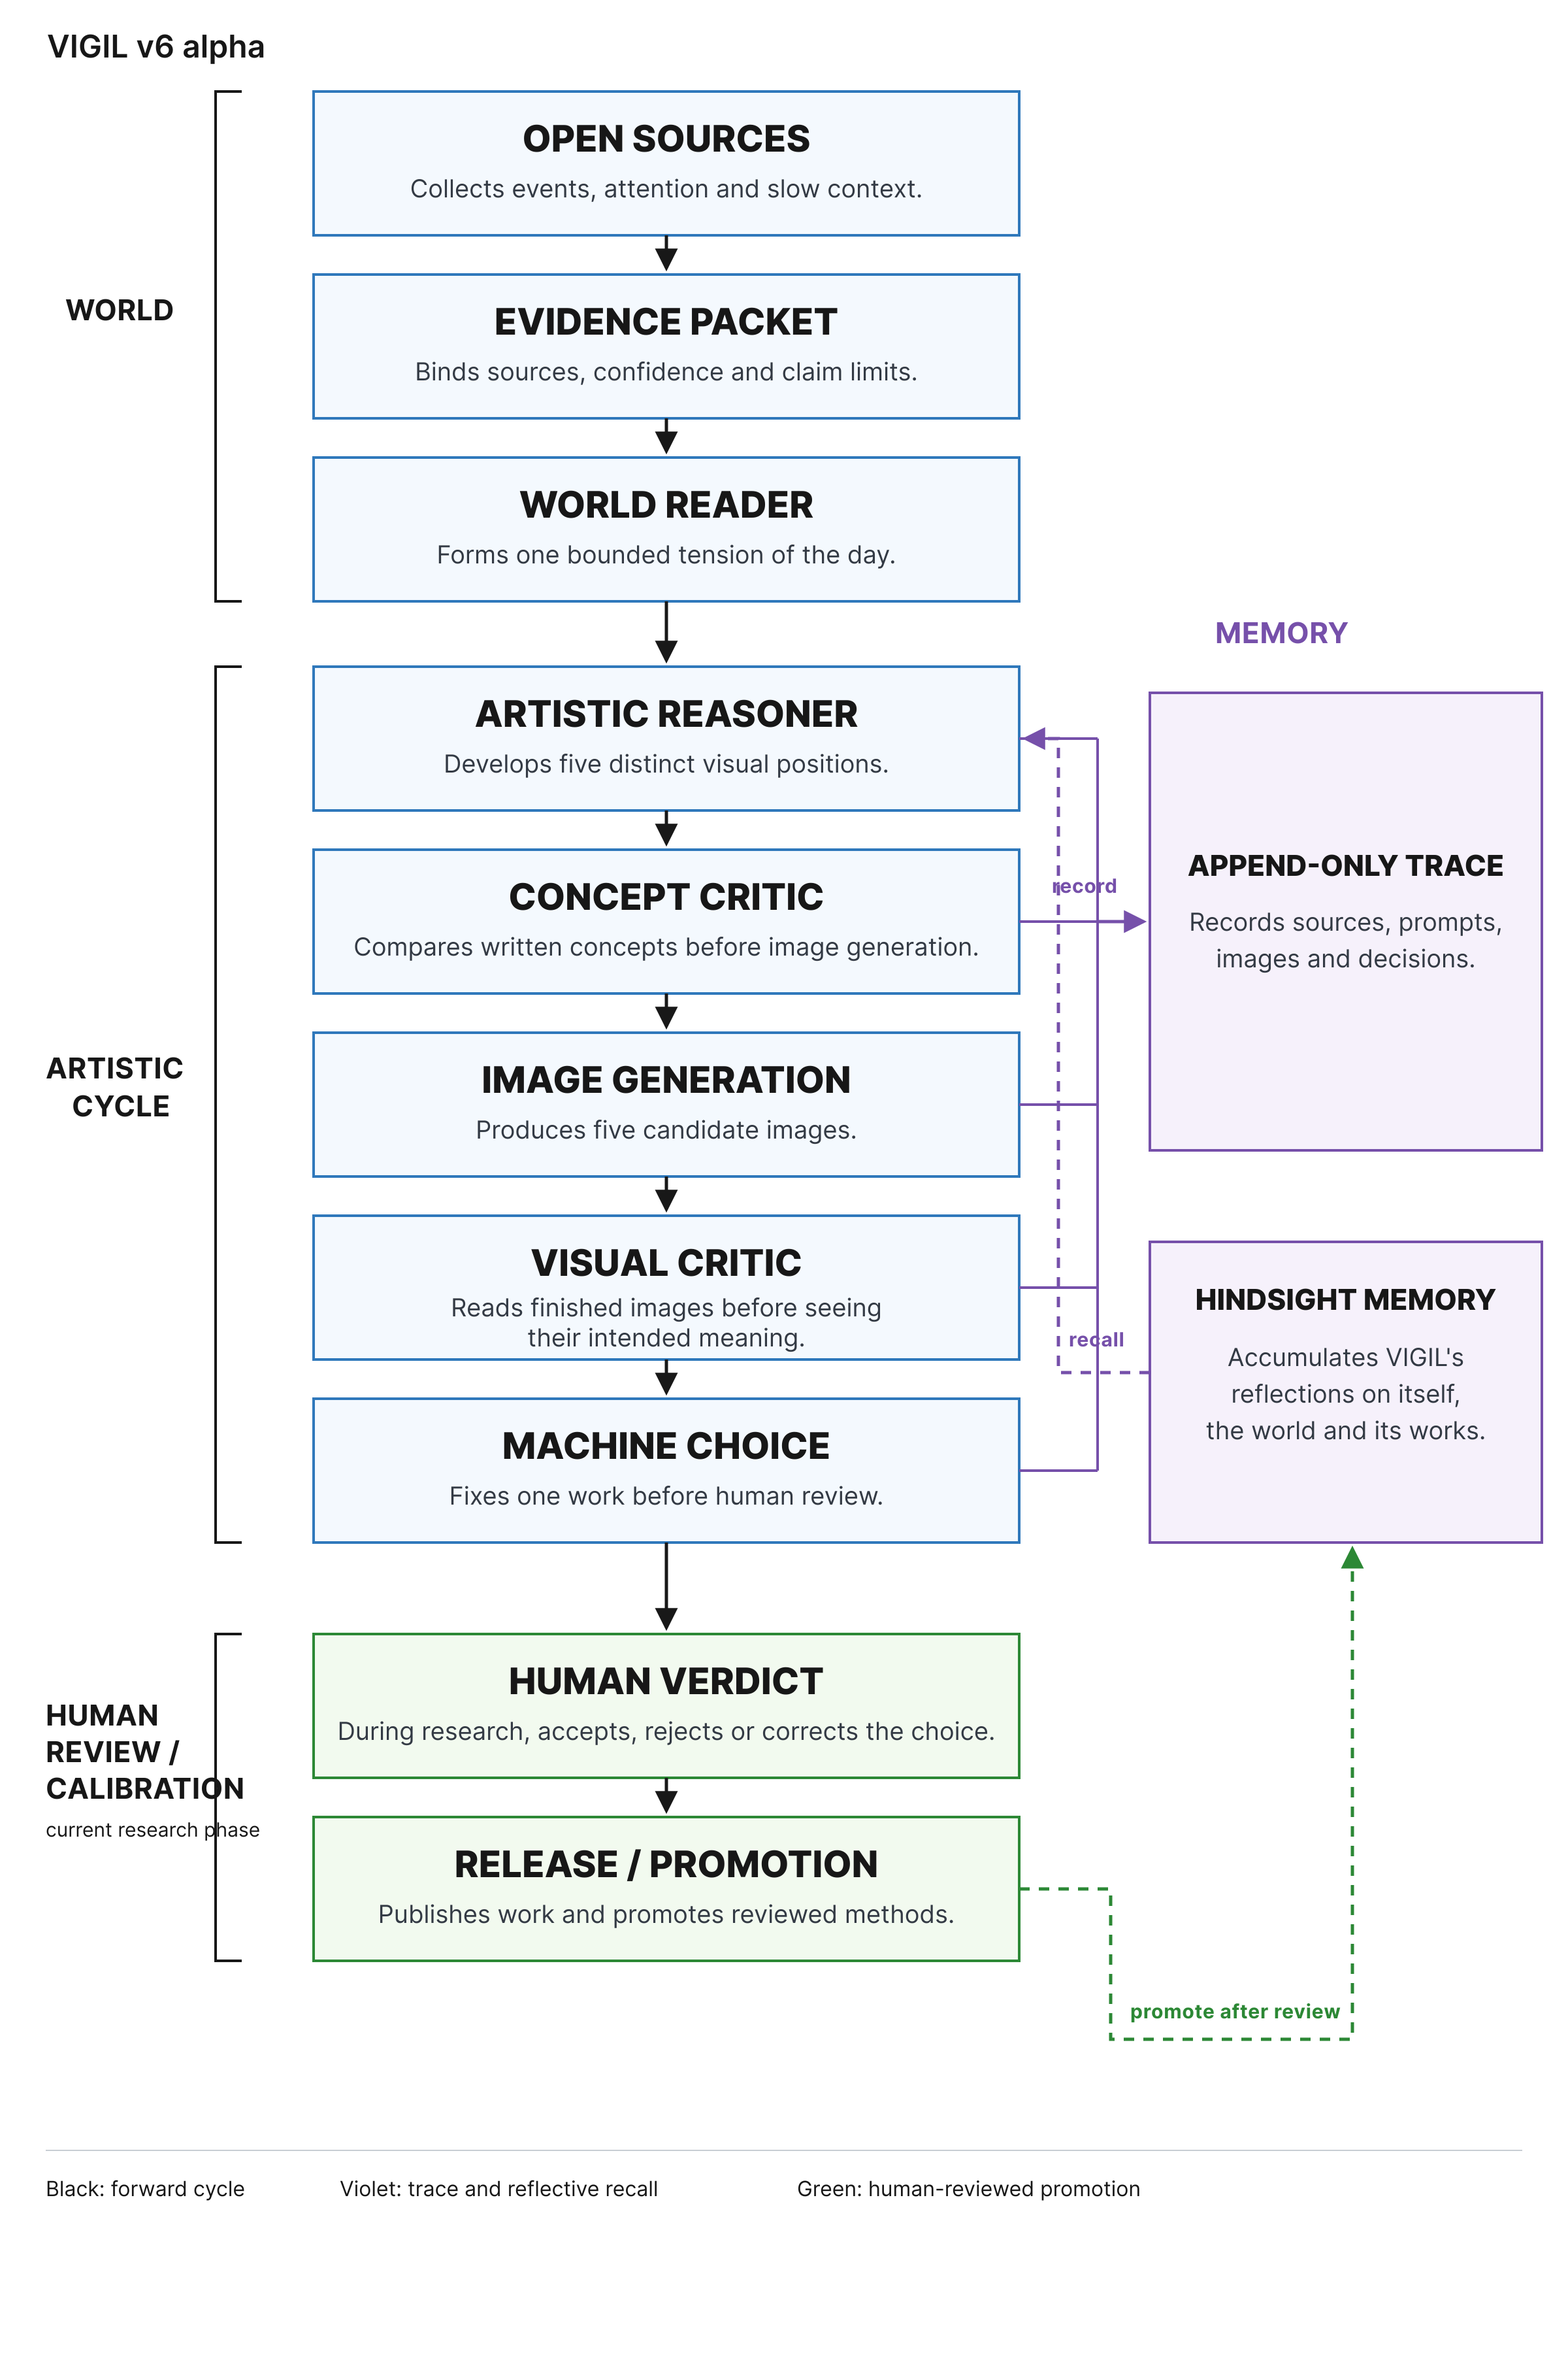
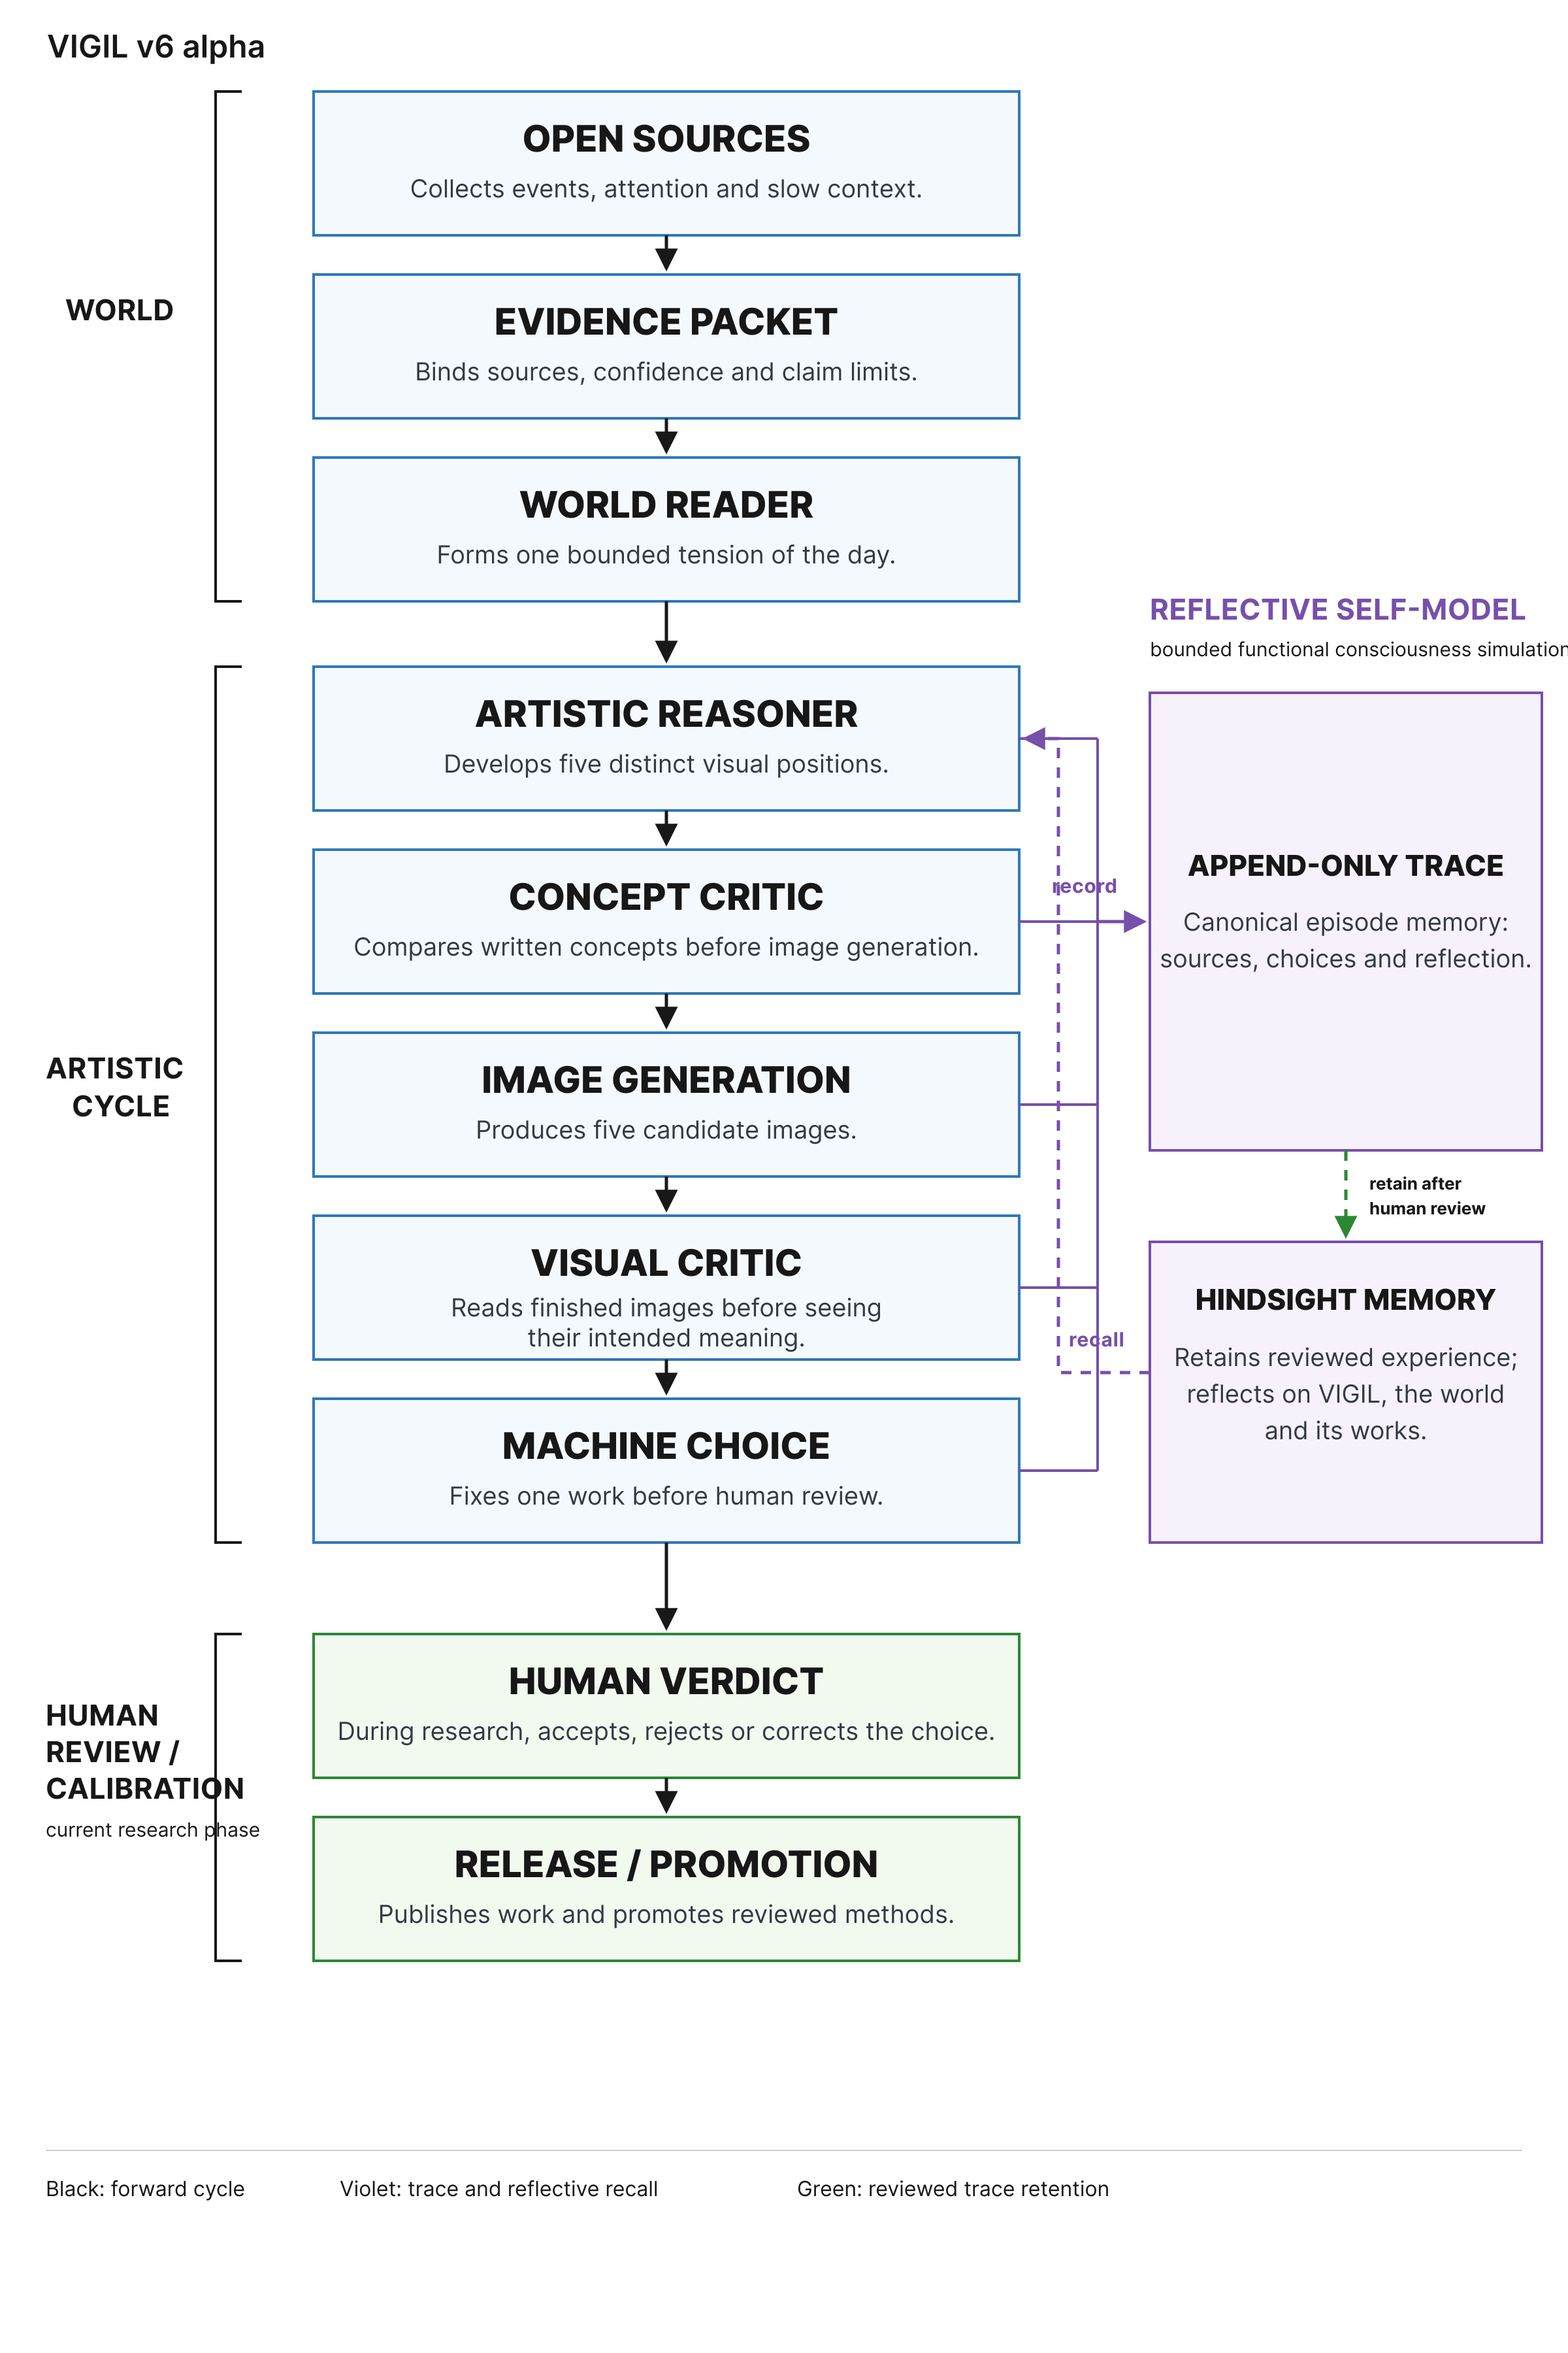
Connect VIGIL reflective memory loop

diff --git a/README.md b/README.md
@@ -30,6 +30,12 @@ Human review currently serves the research, learning and calibration phase. The 
 
 VIGIL's memory carries more than successful techniques. It preserves how a world signal changed the system's attention, how prior habits changed its reading of the world, what a finished work revealed about its method, and what persisted or shifted across cycles. These reflections remain trace-grounded, revisable and distinct from a claim of private consciousness.
 
+### Reflective self-model
+
+VIGIL treats this closed loop as a **bounded functional simulation of reflective consciousness**. The term has a narrow meaning here. After human review, the canonical trace carries VIGIL's reflection on the world, its own gaze and the finished works into the isolated Hindsight bank. Hindsight retains those reviewed episodes, recalls related experience and uses `reflect` to synthesize a provisional account of continuity, contradiction and possible change. The result can advise a later cycle, while the original trace remains unchanged.
+
+The claim concerns observable functions: self-reference across recorded decisions, continuity through time, interpretation guided by memory, counterfactual self-evaluation and revision of later choices. It does not claim sentience, qualia or phenomenal experience. This boundary follows the indicator-based caution proposed by [Butlin et al.](https://arxiv.org/abs/2308.08708); the memory operations follow Hindsight's documented `retain`, `recall` and `reflect` architecture ([Latimer et al., 2026](https://aclanthology.org/2026.acl-demo.27/)).
+
 ## System map
 
 <p align="center">
@@ -37,7 +43,7 @@ VIGIL's memory carries more than successful techniques. It preserves how a world
     <img src="assets/system-map.png" width="820" alt="VIGIL autonomous art cycle with reflective memory">
   </a>
   <br>
-  <sub><strong>Figure 2.</strong> VIGIL v6 alpha system architecture. Runtime sequence, provenance trace, advisory memory and human governance are separated by color and arrow type. Tap or click the image to inspect it at full size.</sub>
+  <sub><strong>Figure 2.</strong> VIGIL v6 alpha system architecture. The canonical episode trace enters Hindsight after human review; reflective recall then advises a later artistic decision. Tap or click the image to inspect it at full size.</sub>
 </p>
 
 <p align="center"><a href="https://raw.githubusercontent.com/esannikov/VIGIL/main/assets/system-map.png">Open full-size PNG</a> · <a href="https://raw.githubusercontent.com/esannikov/VIGIL/main/assets/system-map.svg">Open scalable SVG</a></p>
@@ -56,8 +62,8 @@ The table documents the working prototype while implementation remains private. 
 | Visual translation | **Creative Sight** and **Prompt Director** through `vigil_creative_engine.py` | Converts each position into a scene, composition, material action and generation instruction | Five production scenes and prompts |
 | Image production | **Image gateway** | Generates all five works through GPT Image 2 under the recorded model policy | Five bound image artifacts |
 | Visual review | **Visual Critic** through `visual_critic.py` | Reads finished images before seeing their intended meaning, then performs an informed comparison | Artifact reviews and machine ranking |
-| Trace integrity | `trace_contract.py` and `vigil_creative_engine.py` | Binds sources, alternatives, prompts, files, hashes, critiques and human verdicts | Append-only generation trace |
-| Reflective memory | Artistic Reasoner, **Dream Reasoner** and Hindsight | Relates VIGIL's reflections on itself, the world and its works across reviewed traces | Candidate reflection, continuity question or future experiment |
+| Trace integrity | `trace_contract.py` and `vigil_creative_engine.py` | Binds sources, alternatives, prompts, files, hashes, critiques, structured self-reflection and human verdicts | Canonical append-only episode trace |
+| Reflective memory | Artistic Reasoner, **Dream Reasoner** and Hindsight | Retains reviewed experience and relates VIGIL's reflections on itself, the world and its works across time | Candidate reflective self-model, continuity question or future experiment |
 | Method learning | `trace_compiler.py`, event log and Hindsight | Detects repetition, records candidate discoveries and recalls only reviewed history | Candidate lesson, correction or human-approved method transfer |
 
 ## Why build it?
@@ -198,7 +204,7 @@ The Critic receives the same corpus with a different role. It checks whether the
 | Theory corpus | Versioned notes and source references behind the lenses above | Suggests an operation and a failure condition |
 | Trace archive | Concepts, prompts, images, hashes, blind readings, machine choices and human verdicts | Preserves what happened in a particular cycle |
 | Method bank | Candidate failures, discoveries, corrections and transferred procedures | Only reviewed and promoted methods may guide later runs automatically |
-| Hindsight bank | Associative synthesis across reviewed traces, entities, time, theory and VIGIL's reflections on itself, the world and its works | Recall and reflection only; it cannot establish facts or rewrite the audit trail |
+| Hindsight bank | Associative synthesis across reviewed traces, entities, time, theory and VIGIL's reflections on itself, the world and its works | Retain, recall and reflect over reviewed episodes; it cannot establish facts or rewrite the audit trail |
 
 ## World inputs
 
@@ -310,6 +316,10 @@ Wiggins, G. A. (2006). A preliminary framework for description, analysis and com
 Sannikov, E. (2026). *VIGIL: An autonomous art machine with reflective memory* (Version 6 alpha) [Research software]. GitHub. https://github.com/esannikov/VIGIL
 
 Vectorize. (n.d.). *Hindsight: Agent memory that learns* [Computer software]. GitHub. Retrieved August 5, 2026, from https://github.com/vectorize-io/hindsight
+
+Latimer, C., Boschi, N., Neeser, A., Bartholomew, C., Srivastava, G., Wang, X., & Ramakrishnan, N. (2026). Hindsight: Structured agent memory that retains, recalls, and reflects. *Proceedings of the 64th Annual Meeting of the Association for Computational Linguistics, Volume 3: System Demonstrations*, 275–285. https://doi.org/10.18653/v1/2026.acl-demo.27
+
+Butlin, P., et al. (2023). *Consciousness in artificial intelligence: Insights from the science of consciousness*. arXiv. https://doi.org/10.48550/arXiv.2308.08708
 
 ### Sensor and public-data sources
 
